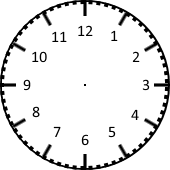
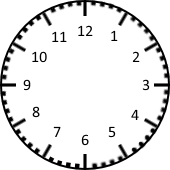
Seconds added

Changed region(s): [[0.0, 0.0, 1.0, 1.0], [0.0588, 0.7353, 0.2353, 0.9118]]

diff --git a/resources/articles/2018/11/9/1/index.html b/resources/articles/2018/11/9/1/index.html
@@ -49,8 +49,12 @@
 					</div>
 				</div>
 				<div id="side-col">
-                    <p class="date">Loading...</p>
-                    <p class="time">Loading...</p>
+                    <div class="time">
+                        <img class="hour" src="/resources/articles/2018/11/9/1/images/hour-arrow.png" style="position: absolute; left: 15px;">
+                        <img class="minute" src="/resources/articles/2018/11/9/1/images/minute-arrow.png" style="position: absolute; left: 15px;">
+                        <img class="second" src="/resources/articles/2018/11/9/1/images/second-arrow.png" style="position: absolute; left: 15px;">
+                    </div>
+                    <p class="date" style="padding-top: 15px;">Loading...</p>
                 </div>
 			</div>
 			<footer></footer>

diff --git a/index.html b/index.html
@@ -34,6 +34,7 @@
                     <div class="time">
                         <img class="hour" src="/resources/articles/2018/11/9/1/images/hour-arrow.png" style="position: absolute; left: 15px;">
                         <img class="minute" src="/resources/articles/2018/11/9/1/images/minute-arrow.png" style="position: absolute; left: 15px;">
+                        <img class="second" src="/resources/articles/2018/11/9/1/images/second-arrow.png" style="position: absolute; left: 15px;">
                     </div>
                     <p class="date" style="padding-top: 15px;">Loading...</p>
                 </div>

diff --git a/resources/js/sidebar-date.js b/resources/js/sidebar-date.js
@@ -2,5 +2,6 @@ function addDate(){
     const date = new Date();
     $("#container #side-col .time .hour").css("transform", "rotate(" + (date.getHours()/12*360) + "deg)");
     $("#container #side-col .time .minute").css("transform", "rotate(" + (date.getMinutes()/60*360) + "deg)");
+    $("#container #side-col .time .second").css("transform", "rotate(" + (date.getSeconds()/60*360) + "deg)");
     $("#container #side-col .date").html(date.getDate() + "/" + (date.getMonth()+1/*Month shown 1 less error!*/) + "/" + date.getFullYear());
 }
